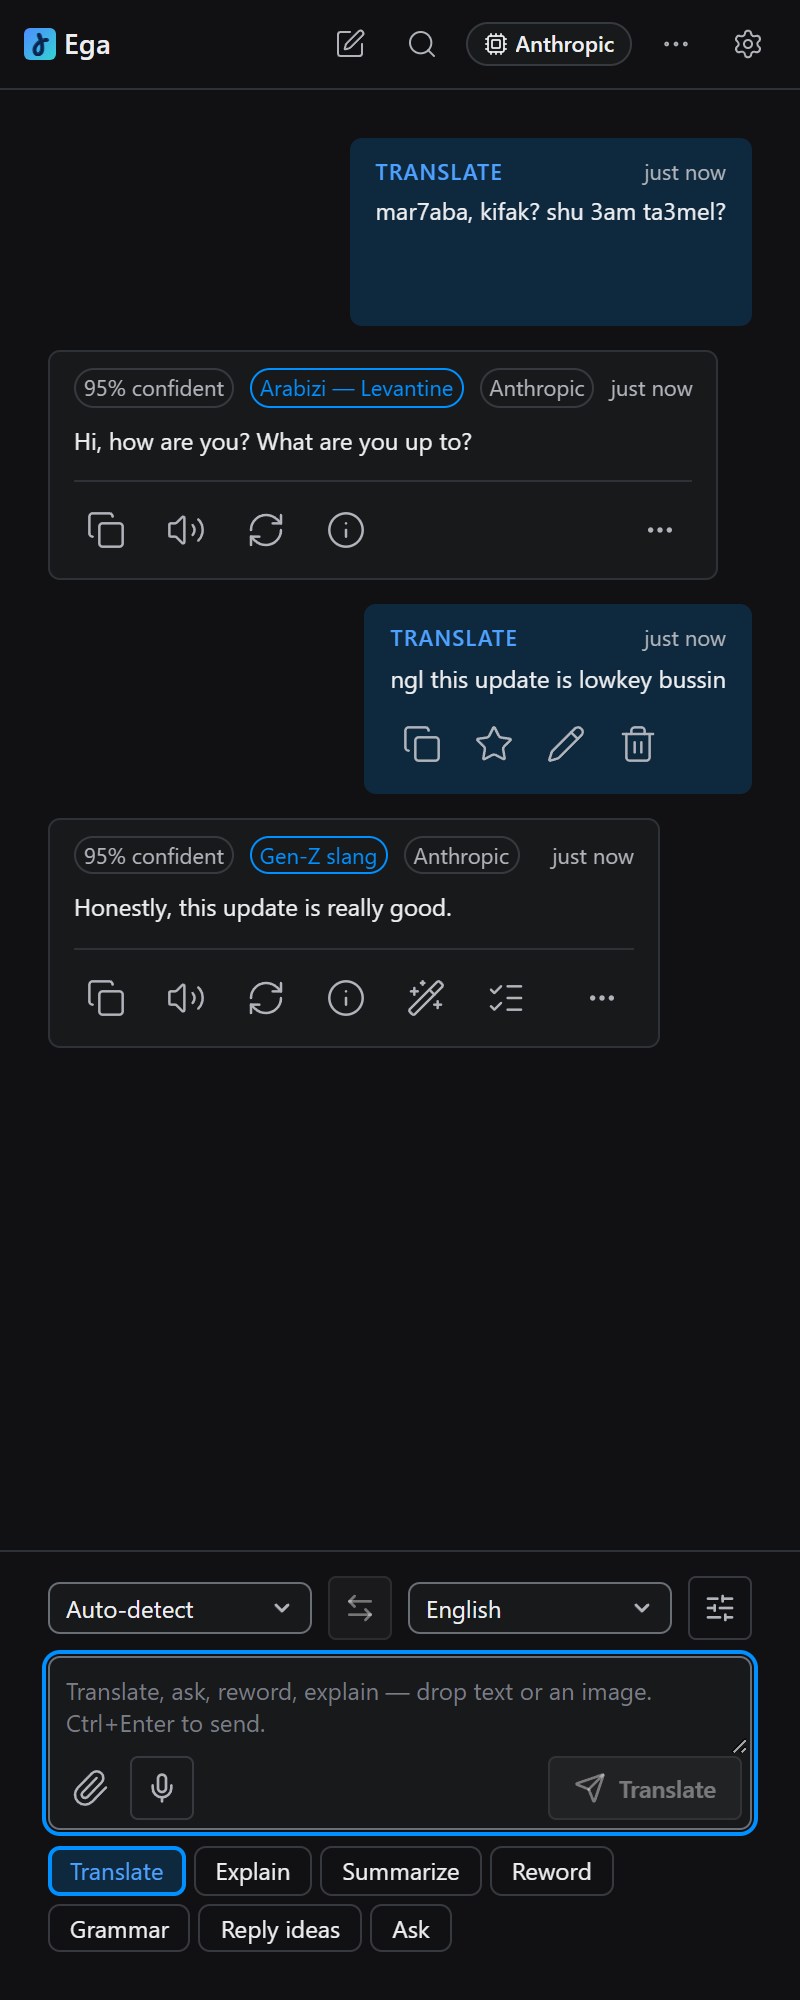
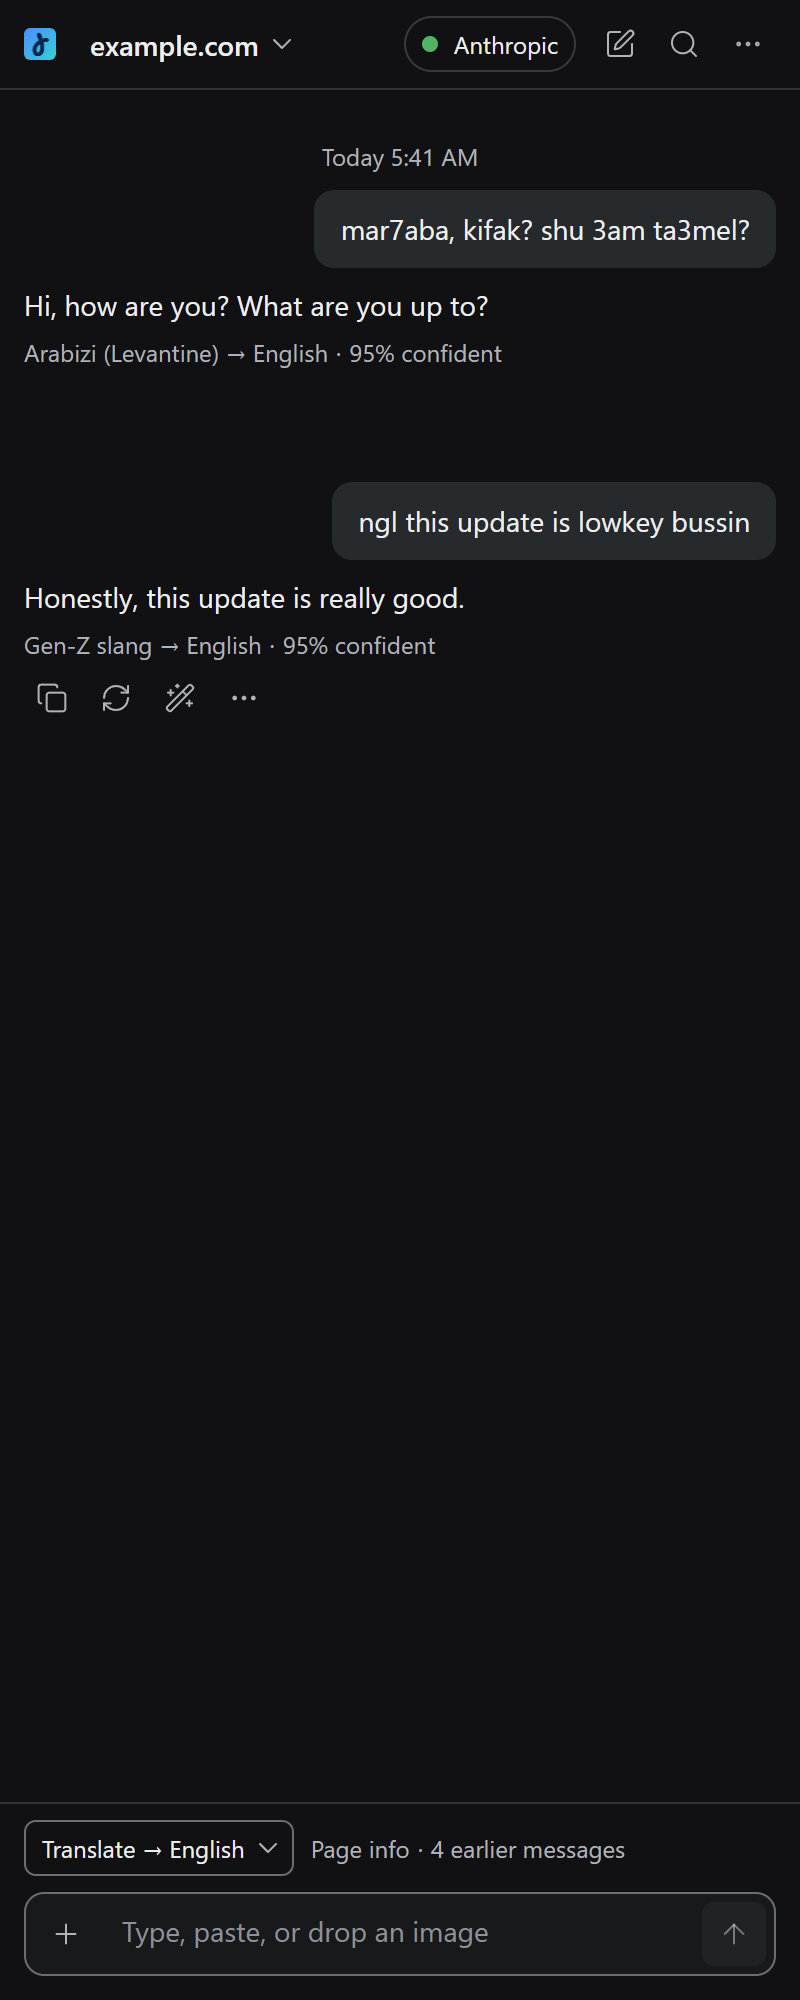
docs(readme): retake the side panel shot on a site, with the one-line reply meta
The showcase now opens example.com beside the panel, so the header names the site
instead of Other pages, and it blurs the composer before the shot.
The alt text describes what the shot shows now: one meta line per answer, and the
Copy, Regenerate, Refine and More row under the latest answer.

diff --git a/tests/e2e/showcase.spec.ts b/tests/e2e/showcase.spec.ts
@@ -8,6 +8,7 @@ import {
   type ExtensionHandle,
   resetRoutes,
 } from './helpers';
+import { FOLLOW_FIXTURE_SCRIPT, openExampleTab } from './sidepanel-audit';
 import fs from 'node:fs';
 import path from 'node:path';
 import { fileURLToPath } from 'node:url';
@@ -134,6 +135,9 @@ test('README — popup with a live backend', async () => {
 test('README — side panel holding a conversation', async () => {
   test.slow();
   await seedSettings(ext.context, ext.extensionId, READY_SEED);
+  // The panel follows a page beside it, so the header names a site instead of "Other pages".
+  await ext.context.addInitScript(FOLLOW_FIXTURE_SCRIPT);
+  await openExampleTab(ext.context);
   const sp = await ext.context.newPage();
   await sp.setViewportSize({ width: 400, height: 1000 });
   await sp.goto(`chrome-extension://${ext.extensionId}/src/sidepanel/index.html`);
@@ -171,6 +175,7 @@ test('README — side panel holding a conversation', async () => {
     if (el) el.scrollTop = el.scrollHeight;
   });
   await sp.waitForTimeout(200); // wait for smooth-scroll settle
+  await sp.evaluate(() => (document.activeElement as HTMLElement | null)?.blur());
   await save(sp, 'sidepanel');
 });
 

diff --git a/README.md b/README.md
@@ -124,7 +124,7 @@ presets, versions of a reply, search and export. The site title at the top lists
 every conversation.
 
 <p align="center">
-  <img src="docs/media/sidepanel.png" alt="Ega's side panel in dark mode with two exchanges, an Arabizi line and a slang line each translated with a 95% sure score and a detected-language pill (Arabizi — Levantine, Gen-Z slang), and Refine and Re-run as buttons on the latest answer" width="360">
+  <img src="docs/media/sidepanel.png" alt="Ega's side panel in dark mode on example.com with two exchanges: an Arabizi line and a slang line, each answered with one meta line (Arabizi (Levantine) → English · 95% confident, Gen-Z slang → English · 95% confident), and Copy, Regenerate, Refine and More under the latest answer" width="360">
 </p>
 
 ## Backends
